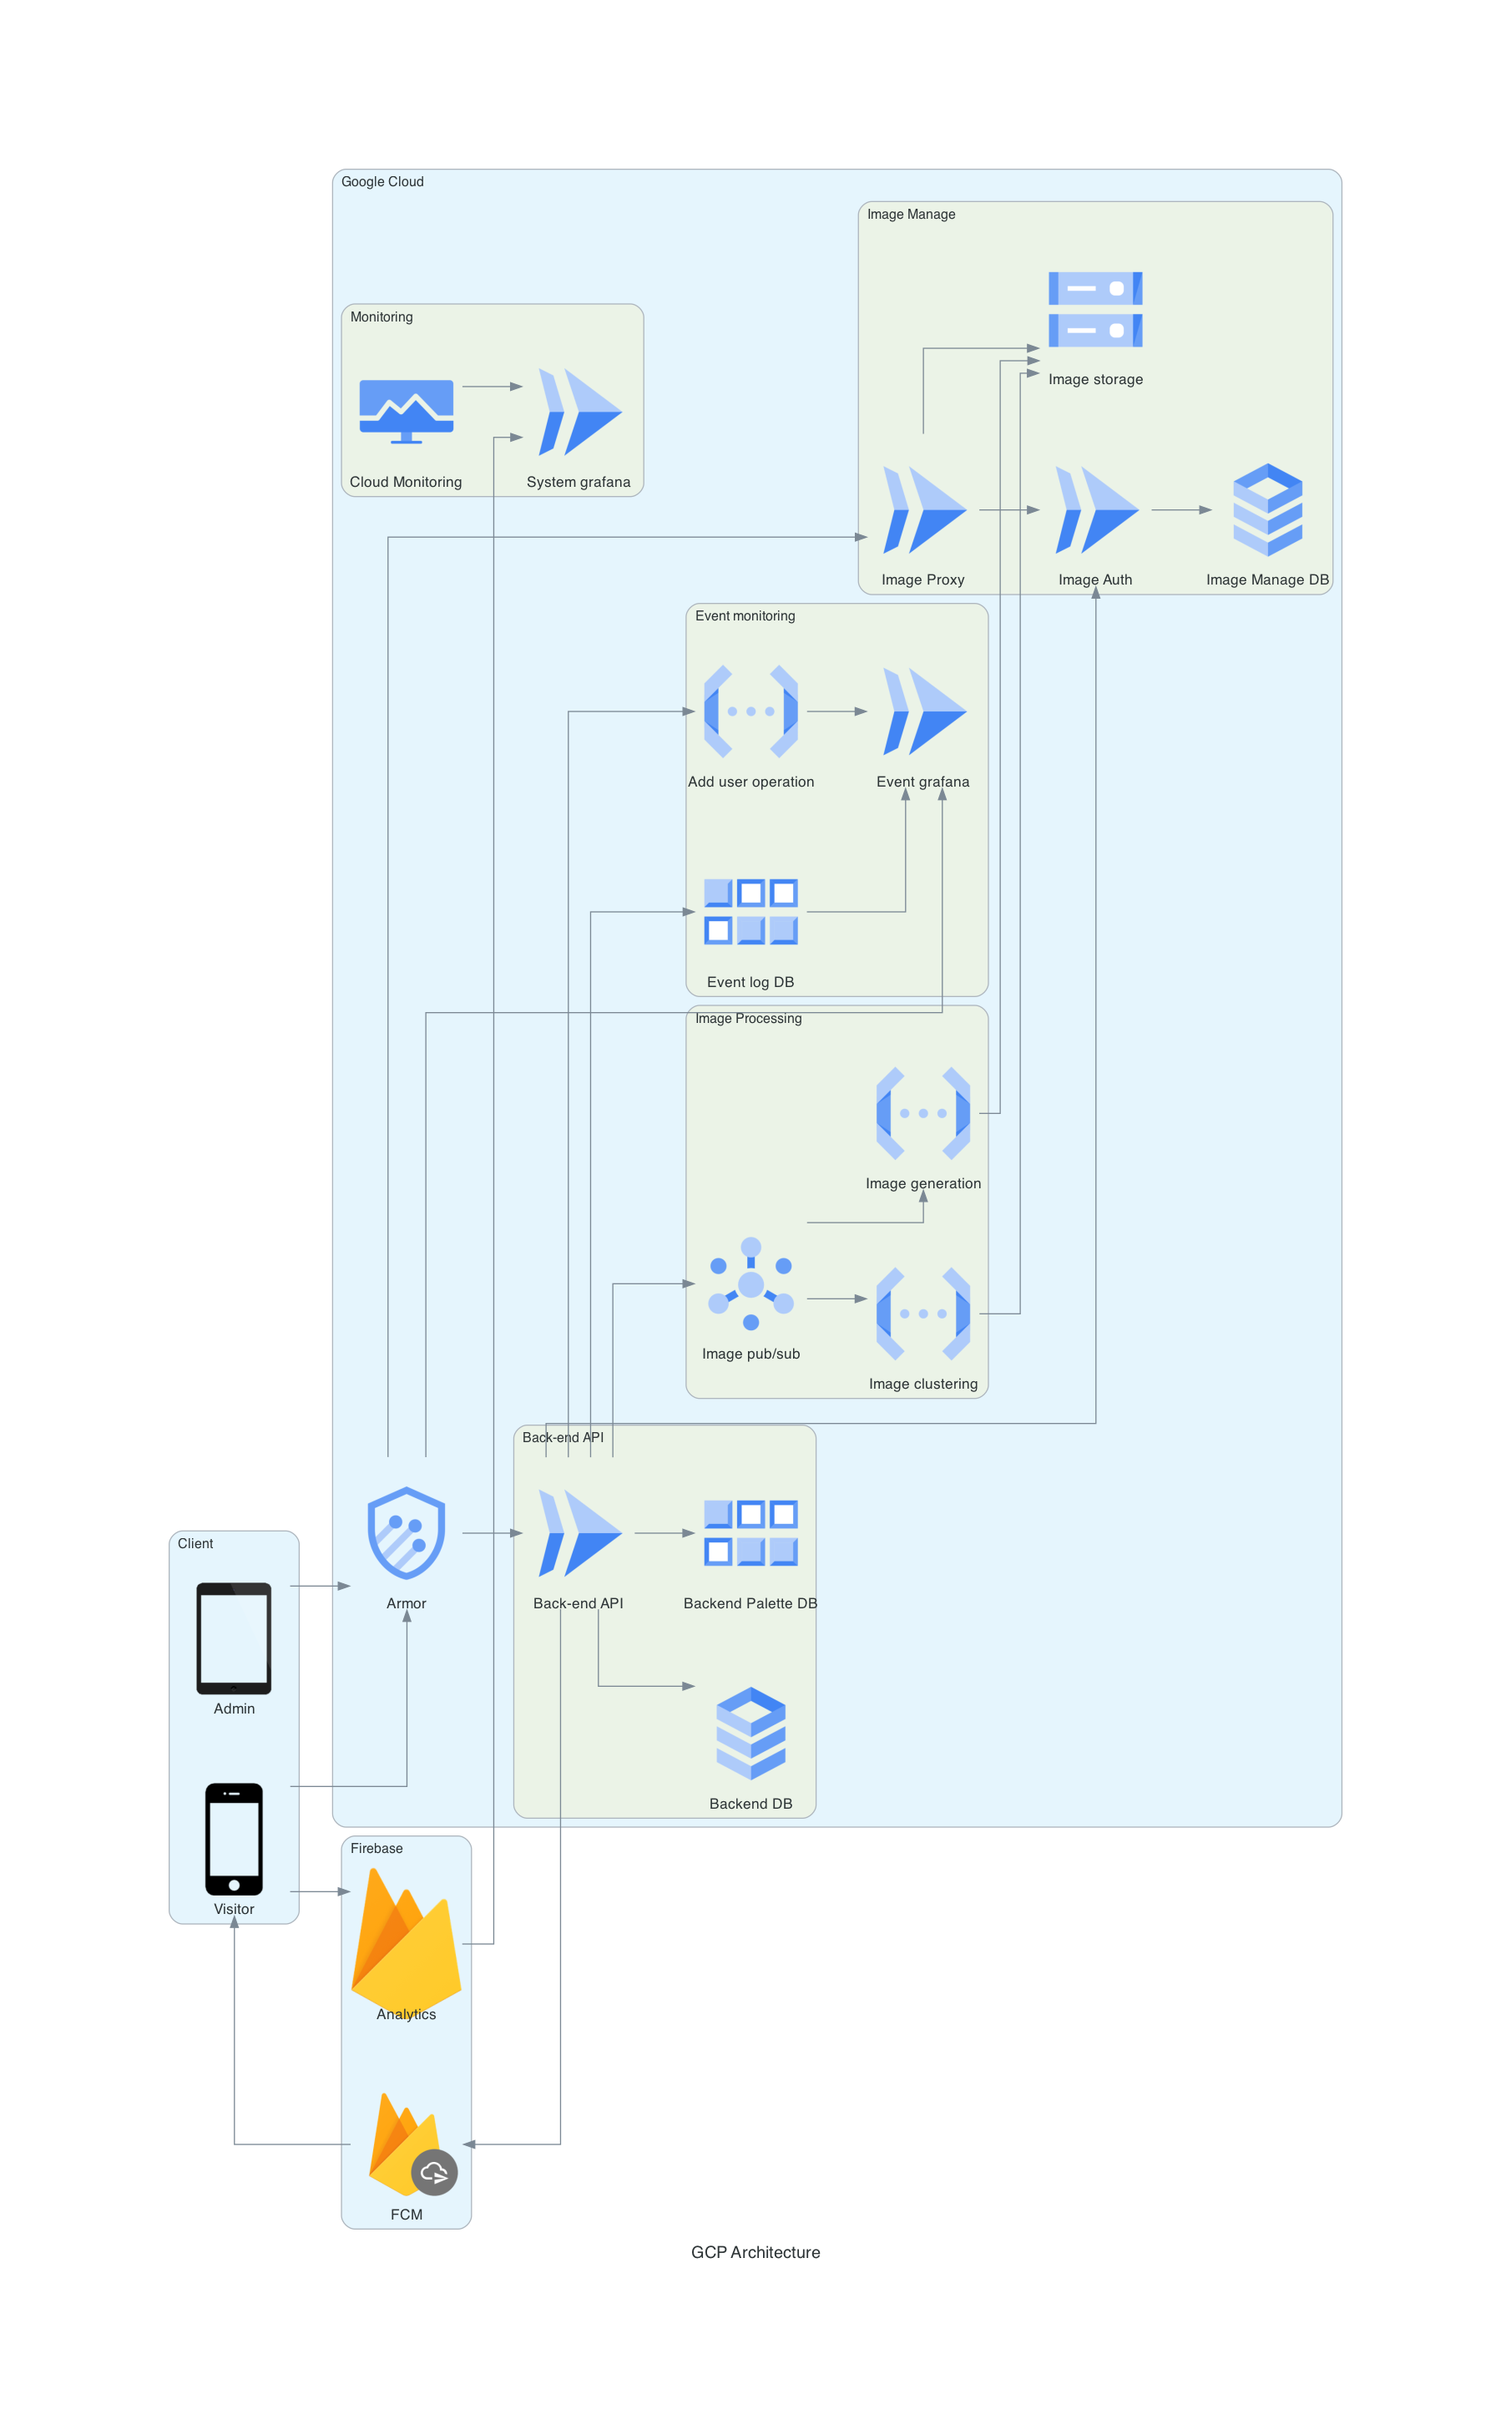
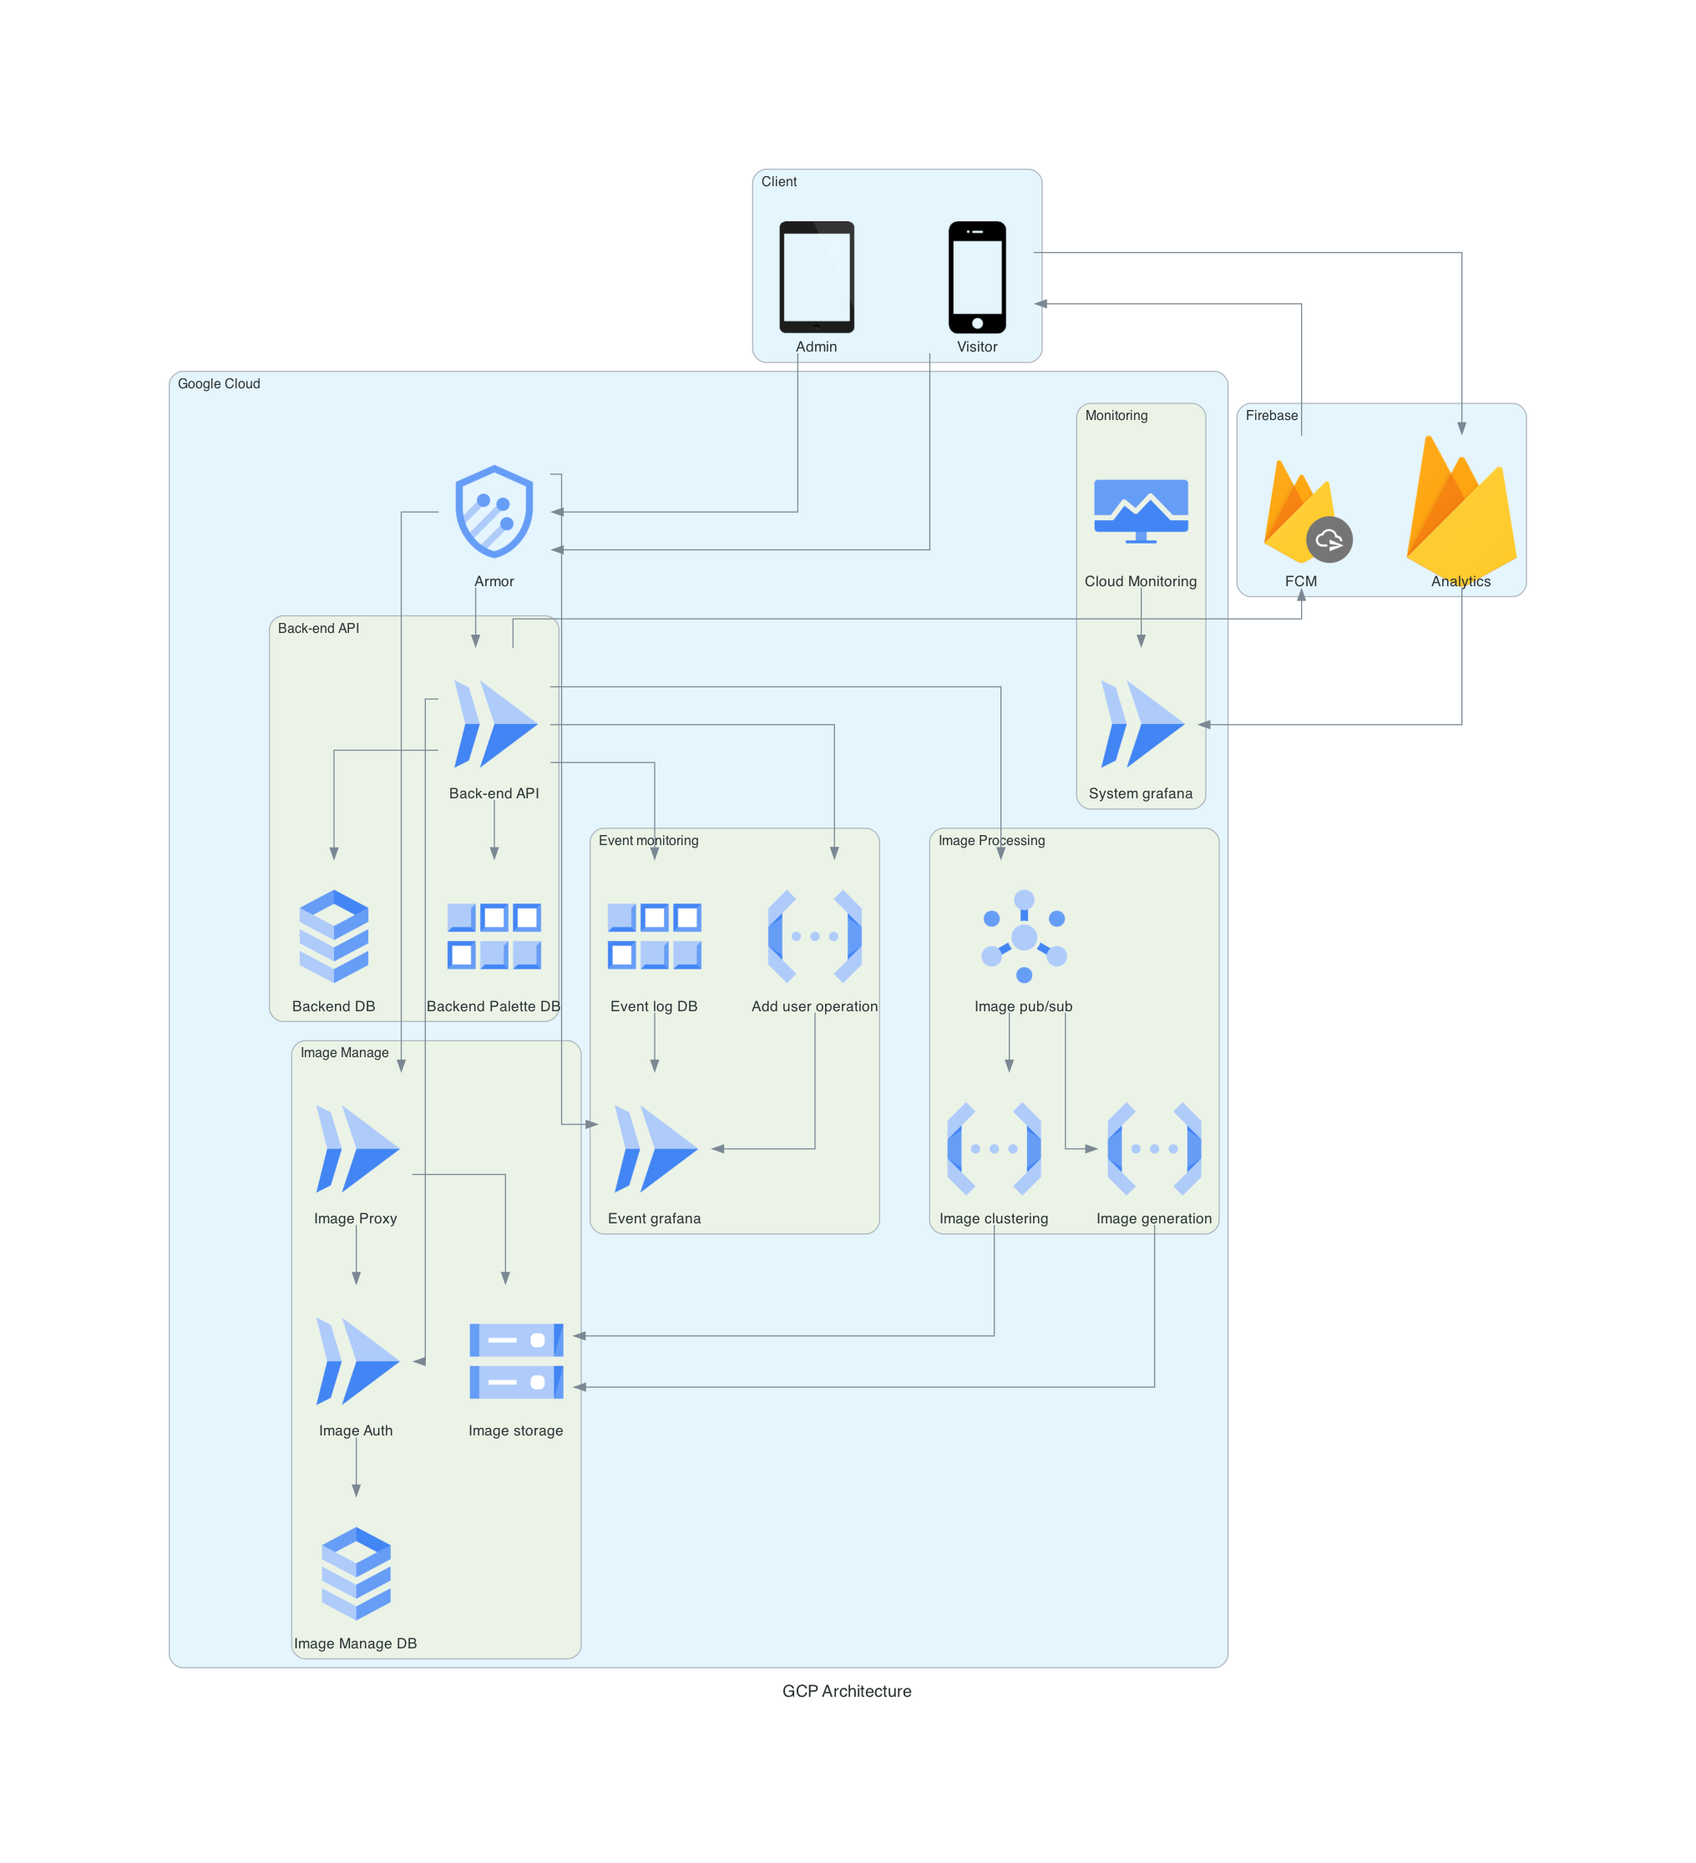
feat: direction

Changed region(s): [[0.0928, 0.0619, 0.9282, 0.9278], [0.4331, 0.2474, 0.5569, 0.433]]

diff --git a/diagrams/architecture/__init__.py b/diagrams/architecture/__init__.py
@@ -94,8 +94,8 @@ def drawArchitecture(is_service=False):
     visitor_mobile >> analytics
 
 
-with Diagram("GCP Architecture", filename="docs/architecture/imgs/gcp_architecture", show=False):
+with Diagram("GCP Architecture", filename="docs/architecture/imgs/gcp_architecture", show=False, direction="TB"):
     drawArchitecture()
 
-with Diagram("Service Architecture", filename="docs/architecture/imgs/service_architecture", show=False):
+with Diagram("Service Architecture", filename="docs/architecture/imgs/service_architecture", show=False, direction="TB"):
     drawArchitecture(is_service=True)
